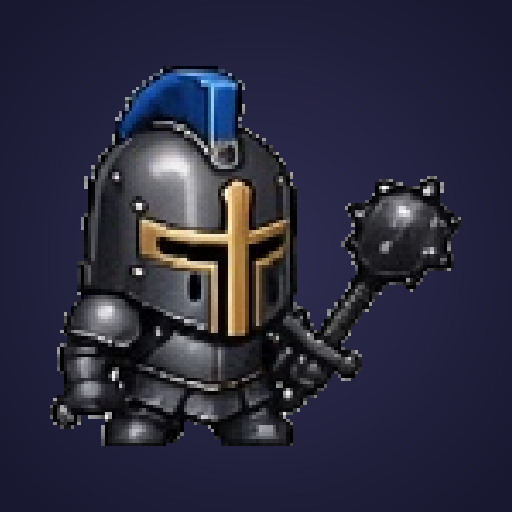
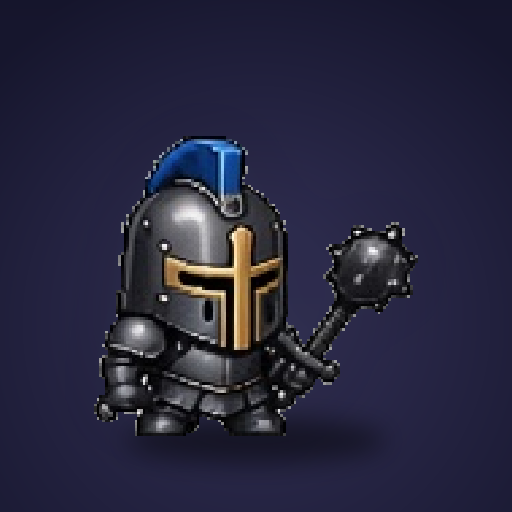
아트·기능(게임): 초상화 퀄업 + 스킬은 제자리에서 쓴다
오너 지적 "초상화 관련 부분 좀 더 퀄업해, 지금 너무 엉성함".
인물이 프레임을 꽉 채워 답답했고, 배경이 단색 비네트뿐이라 인물이 배경에
붙어 보였다. 셋을 더했다:
 - 인물 키 380 → 300px. 프레임 안에서 숨 쉴 여백(좌우 94~153px, 하단 76px)
 - 인물 뒤 **후광** — 실루엣을 흐려 밝게 깔아 배경에서 떨어뜨린다
 - **발밑 그림자 타원** — 공중에 뜬 느낌을 없앤다
 - 세로 그라디언트(위 어둡고 아래 밝게) + 인물 중심 비네트로 깊이

오너 지시 "캐릭터 스킬 쓸 때는 제자리에서 사용".
시전 중(SkillT > 0)에도 걷기 이동이 계속 들어가 캐릭터가 큰 동작을 재생하며
미끄러졌다 — 발이 땅에 안 붙으면 시전이 동작으로 안 읽힌다. 시전 중에는
이동 입력을 0으로 만든다. 대시는 그 자체가 이동기라 예외(DashT).

Changed region(s): [[0.0938, 0.125, 0.9062, 0.875]]

diff --git a/projects/ashes-to-stars/unity/Assets/Scripts/W3Party.cs b/projects/ashes-to-stars/unity/Assets/Scripts/W3Party.cs
@@ -2041,6 +2041,12 @@ public class W3Party : MonoBehaviour
             if (sep.sqrMagnitude > 1e-4f)
                 want = (want + sep * 1.4f).normalized;
 
+            // 스킬은 **제자리에서** 쓴다(오너 지시 2026-08-18). 큰 동작을 재생하는 중에도
+            // 걷기 이동이 계속 들어가 캐릭터가 시전하며 미끄러졌다 — 발이 땅에 안 붙으면
+            // 시전 동작이 동작으로 안 읽힌다. 대시는 그 자체가 이동기라 예외다(DashT).
+            if (m.SkillT > 0f && m.DashT <= 0f)
+                want = Vector2.zero;
+
             if (m.DashT <= 0f)
             {
                 Vector2 step = want * PlayerSpeed * 0.85f * SpdOf(m) * dt;
